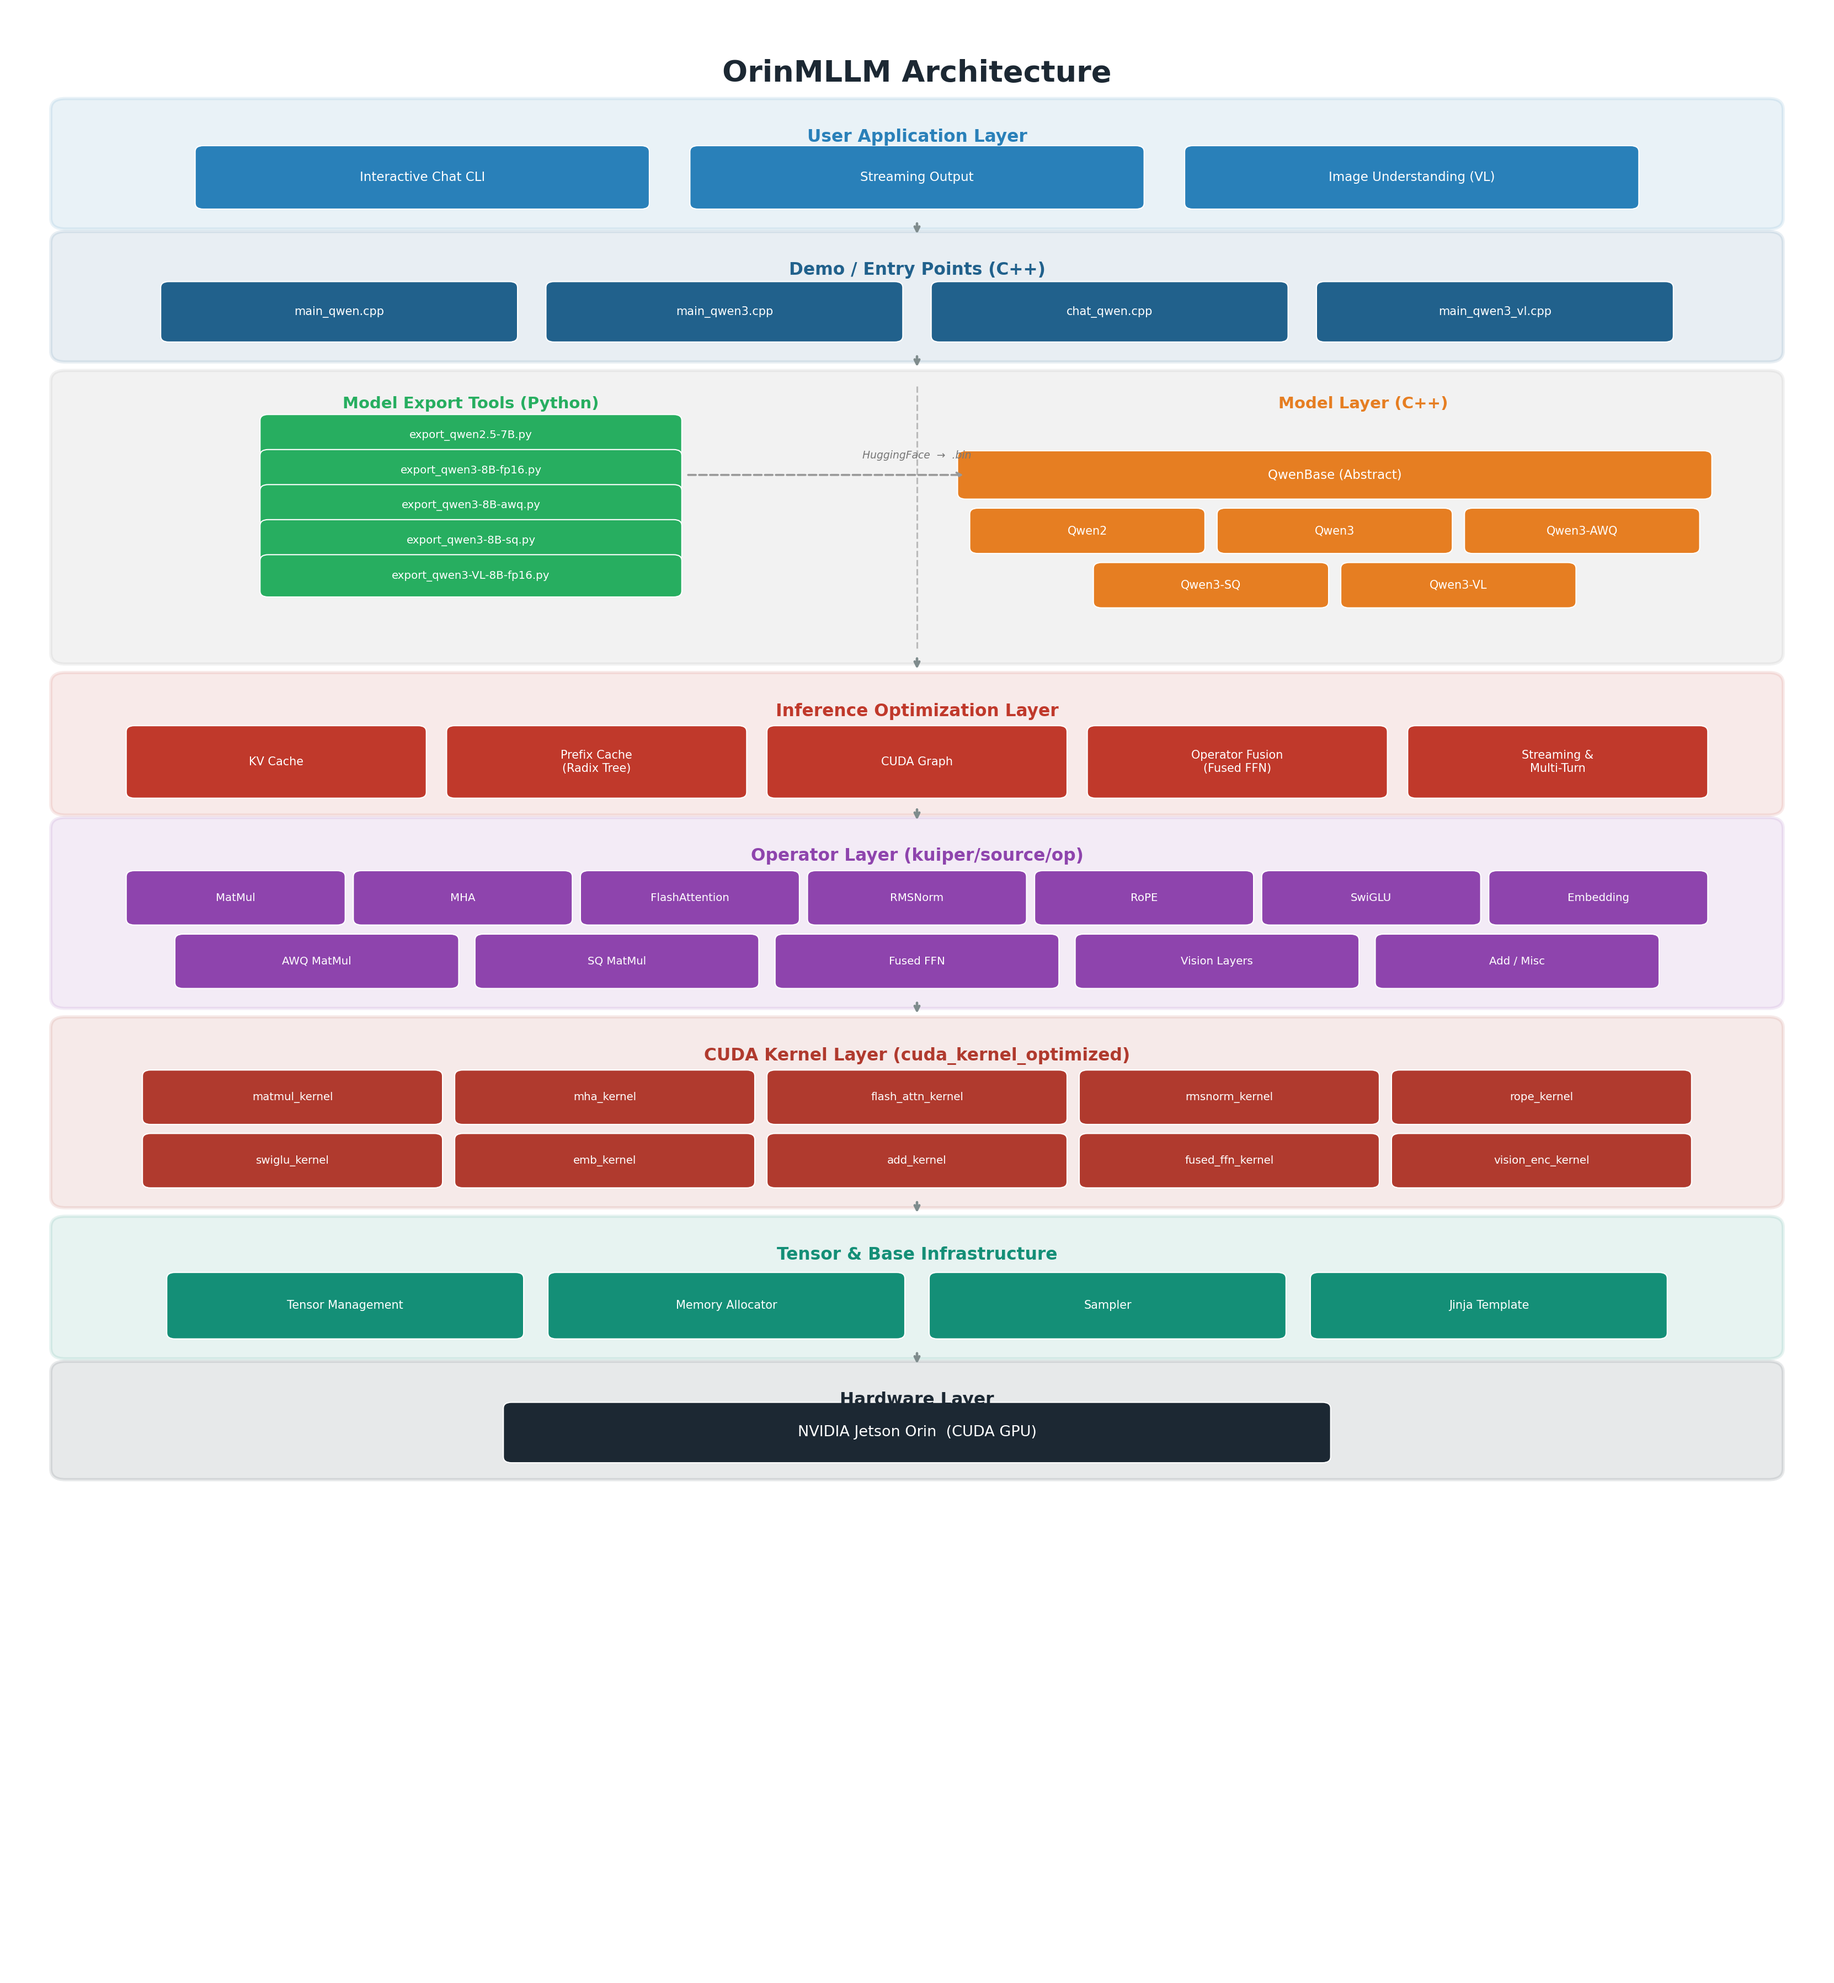
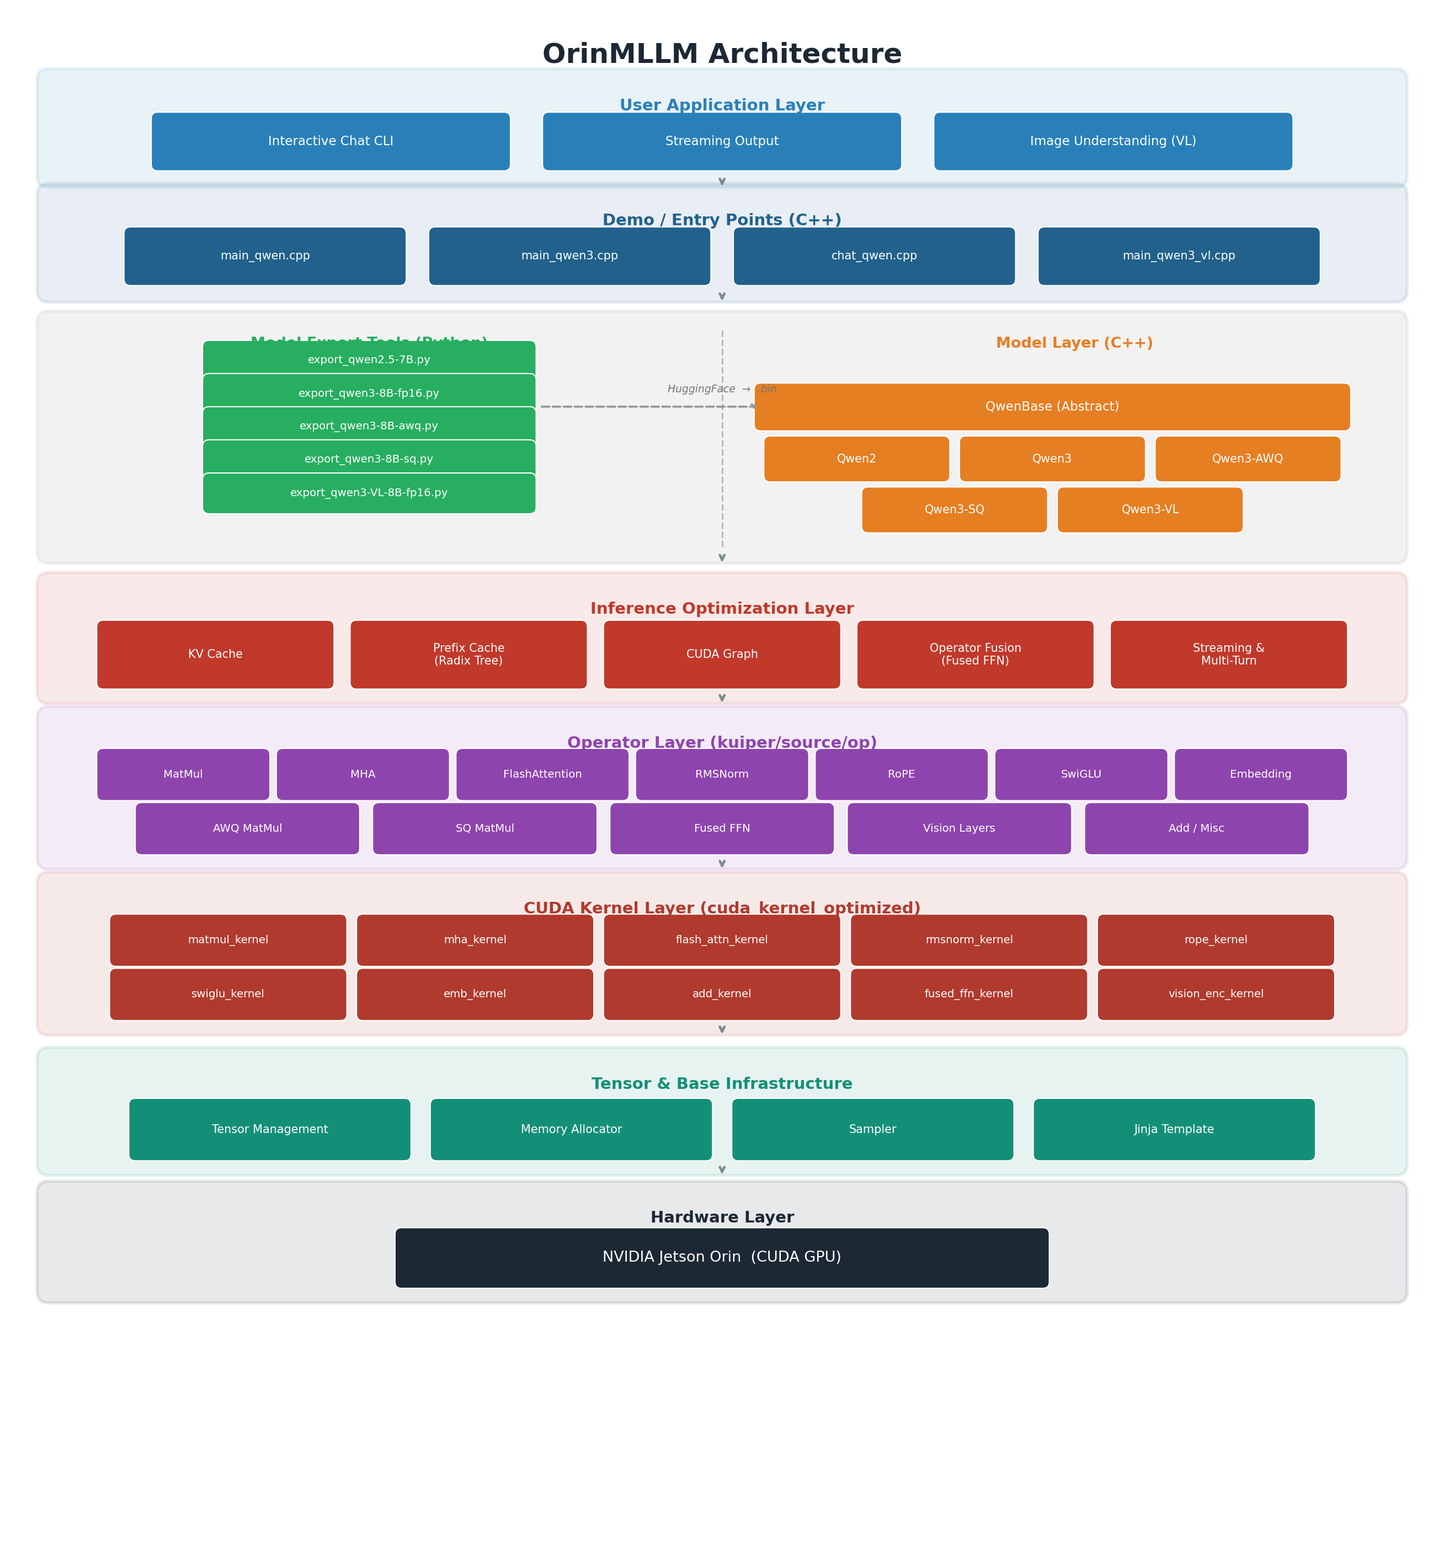
Fix the problem in the README.md file

diff --git a/README.md b/README.md
@@ -184,7 +184,7 @@ python tools/export_qwen3-8B-fp16.py Qwen3-8B-fp16.bin --dtype fp16 --hf Qwen3-8
 
 **Demo:**
 
-https://github.com/yhwang-hub/assets/Qwen3-8B-fp16.mp4
+https://github.com/yhwang-hub/OrinMLLM/blob/main/screens/Qwen3-8B-fp16.mp4
 
 <video src="screens/Qwen3-8B-fp16.mp4" controls width="800"></video>
 
@@ -207,6 +207,7 @@ python tools/export_qwen3-8B-awq.py Qwen3-8B-awq.bin --hf Qwen3-8B-awq
 ```
 
 **Demo:**
+https://github.com/yhwang-hub/OrinMLLM/blob/main/screens/Qwen3-8B-awq.mp4
 
 <video src="screens/Qwen3-8B-awq.mp4" controls width="800"></video>
 
@@ -229,6 +230,7 @@ python tools/export_qwen3-8B-sq.py Qwen3-8B-sq.bin --hf Qwen3-8B-sq
 ```
 
 **Demo:**
+https://github.com/yhwang-hub/OrinMLLM/blob/main/screens/Qwen3-8B-sq.mp4
 
 <video src="screens/Qwen3-8B-sq.mp4" controls width="800"></video>
 
@@ -251,6 +253,7 @@ python tools/export_qwen3-VL-8B-fp16.py Qwen3-VL-8B-fp16.bin --hf Qwen3-VL-8B-In
 ```
 
 **Demo:**
+https://github.com/yhwang-hub/OrinMLLM/blob/main/screens/Qwen3-VL-8B-fp16.mp4
 
 <video src="screens/Qwen3-VL-8B-fp16.mp4" controls width="800"></video>
 
